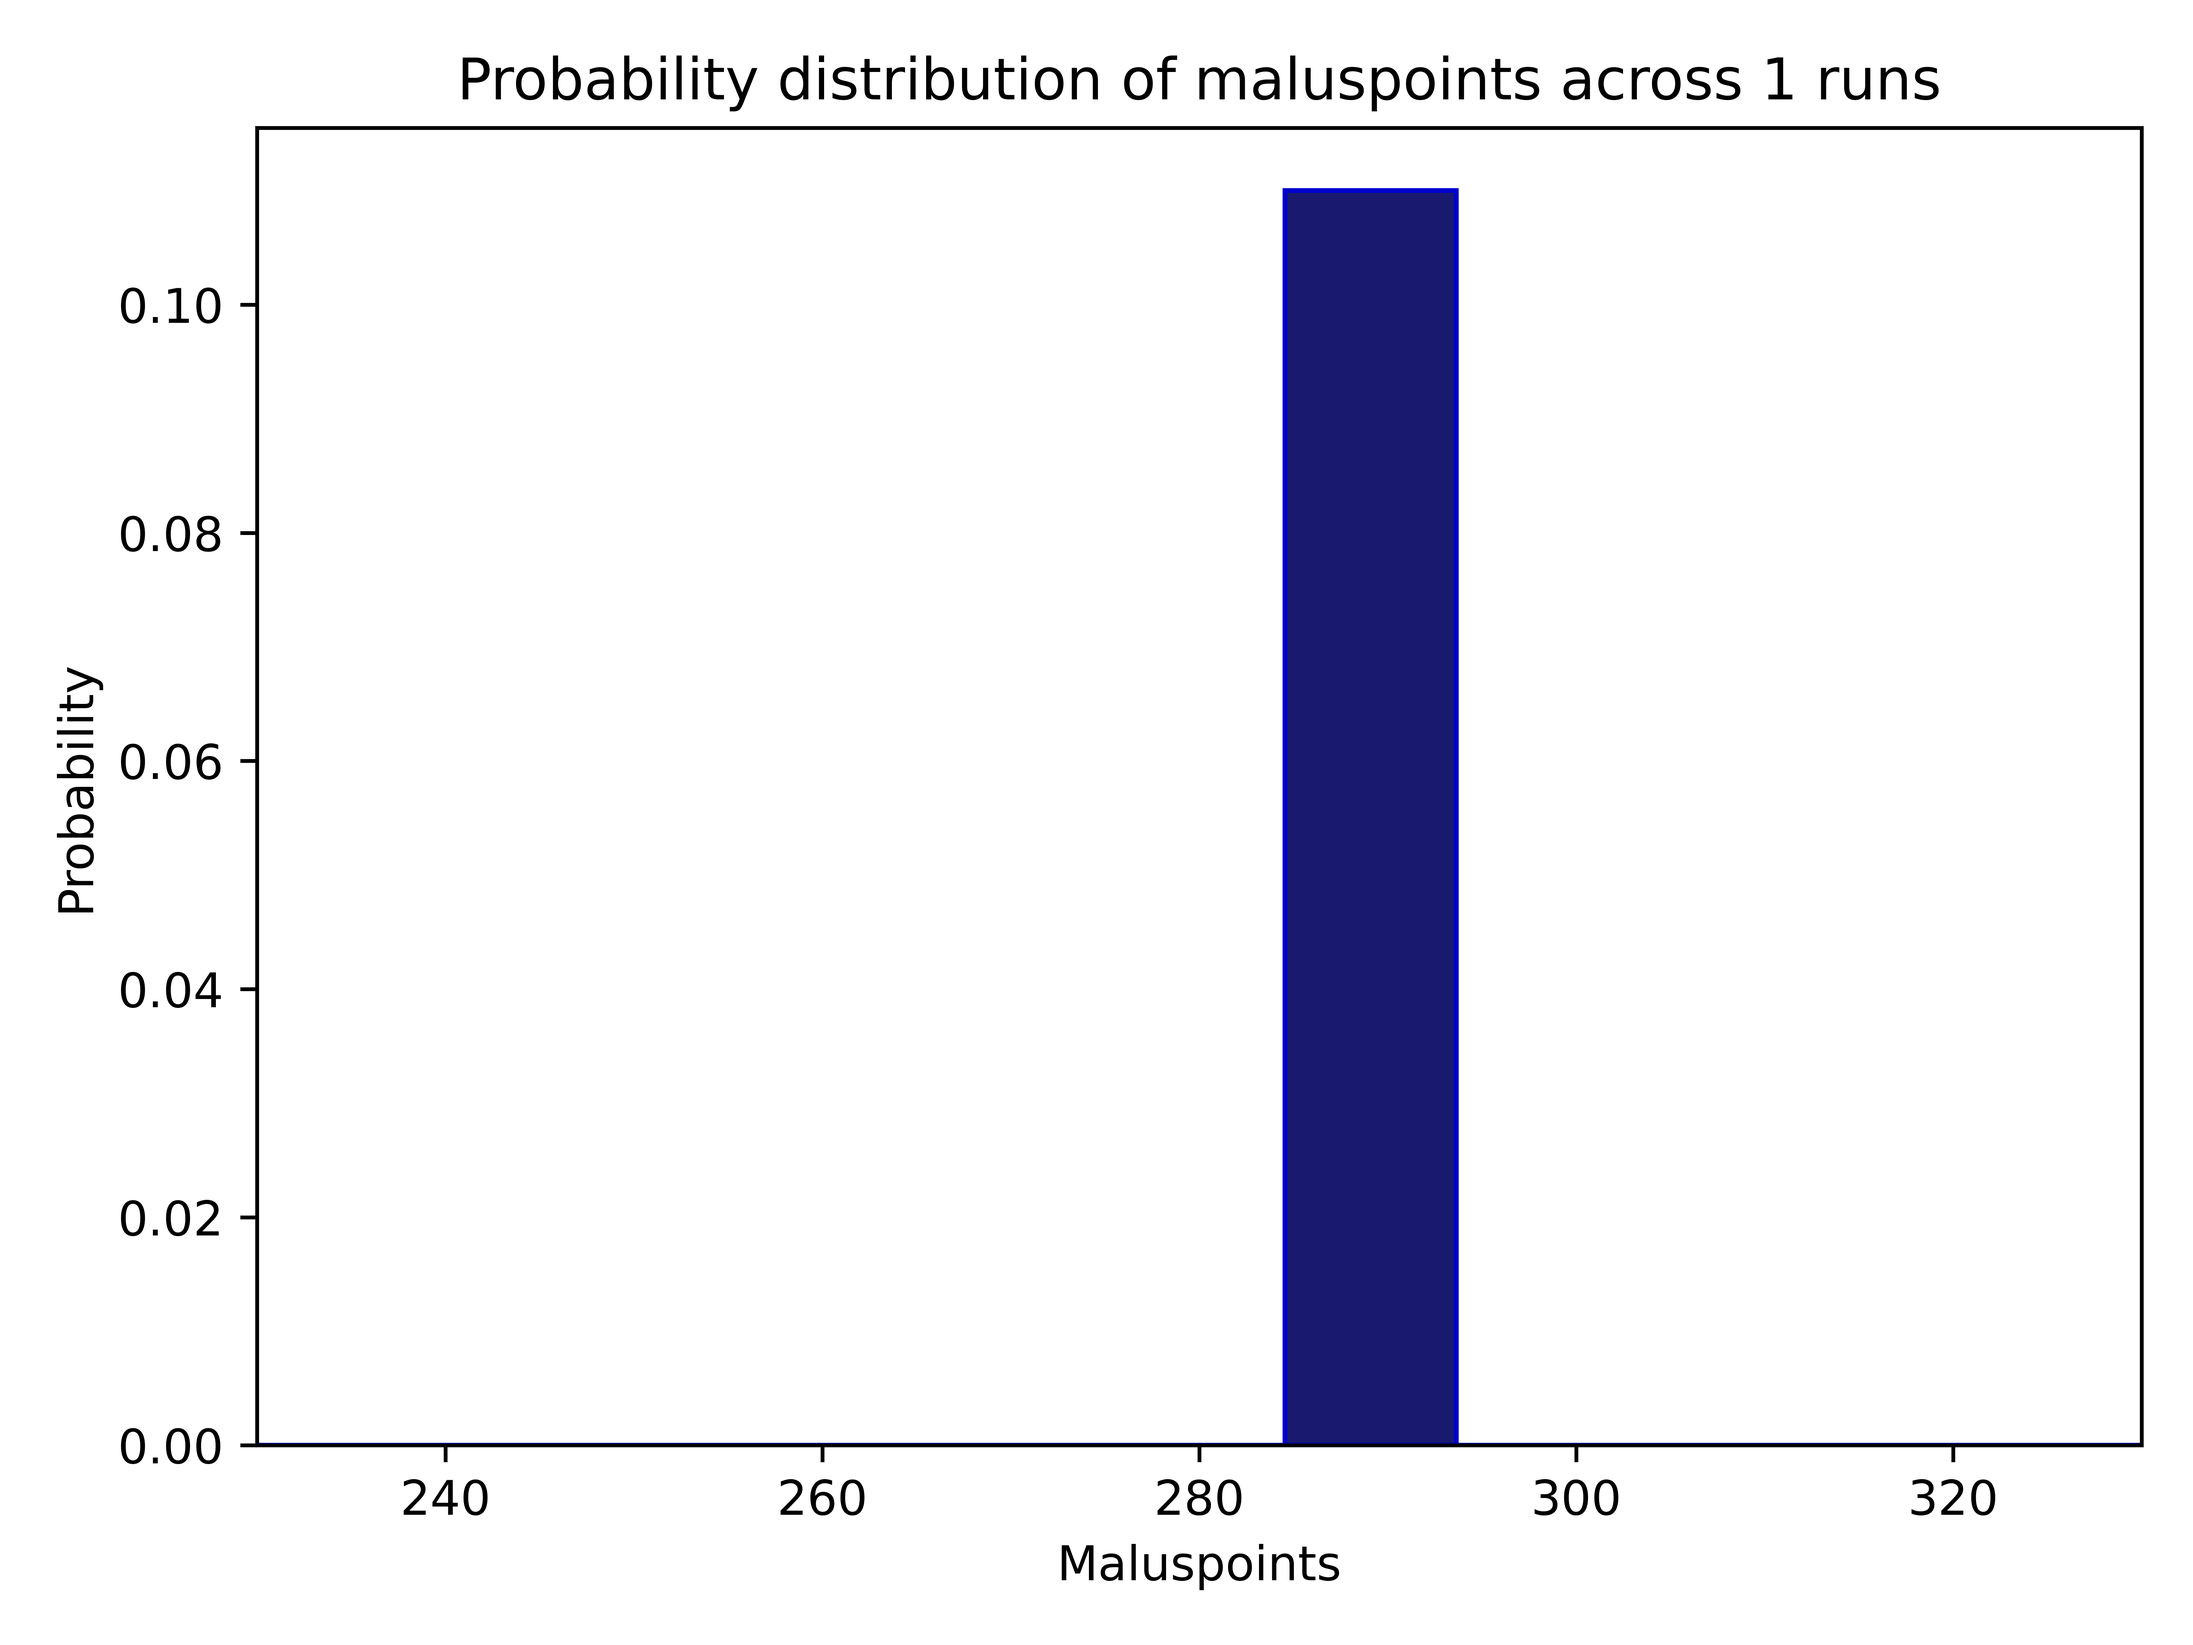
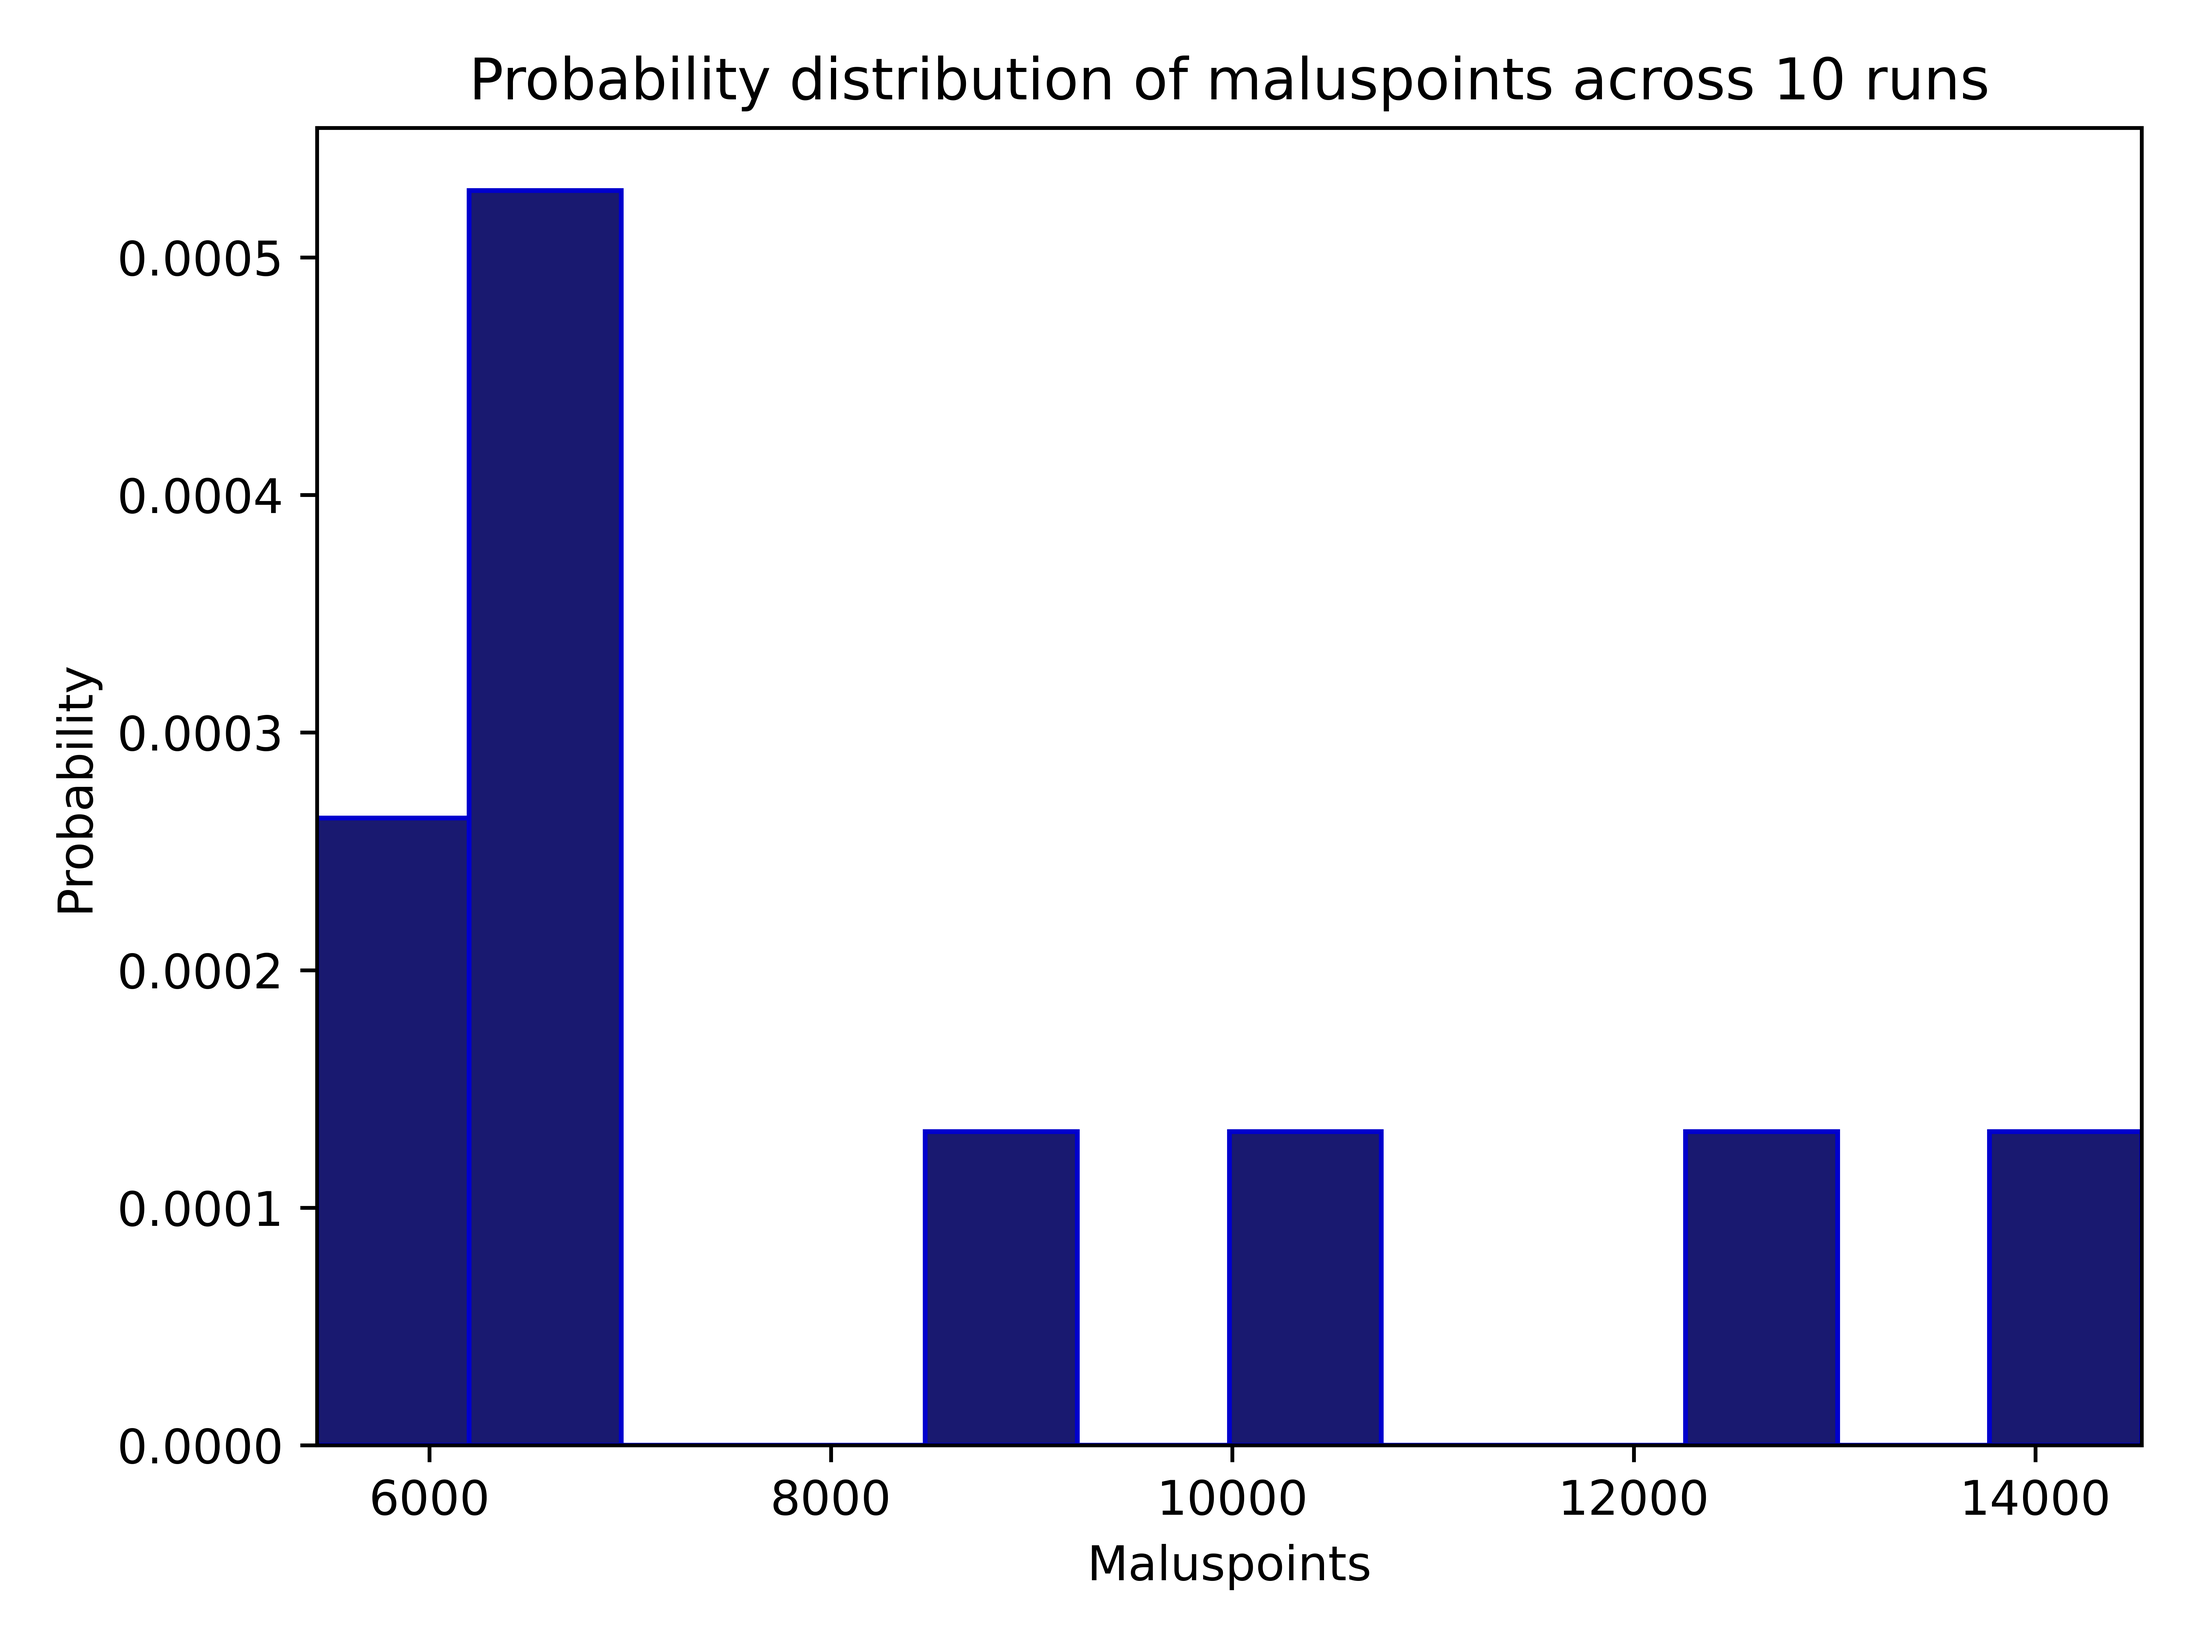
Graph and histogram bugs fixed

diff --git a/code/visualisations.py b/code/visualisations.py
@@ -60,7 +60,7 @@ def distribution(points, n):
 
     minimum = min(points) // 10 * 10 - 50
     maximum = max(points) // 10 * 10 + 50
-    plt.hist(points, range=(minimum, maximum), color='midnightblue', edgecolor='mediumblue', density=True, bins=(maximum - minimum) // 10 + 1)
+    plt.hist(points, range=(minimum, maximum), color='midnightblue', edgecolor='mediumblue', density=True, bins=12)
     plt.xlim(minimum, maximum)
     plt.title(f"Probability distribution of maluspoints across {n} runs")
     plt.xlabel("Maluspoints")
@@ -86,4 +86,4 @@ def plot(plotx, ploty, streak, algorithm):
     plt.ylabel("Maluspoints")
     plt.title(f"Points during hill climber after {len(ploty)} iterations")
     plt.grid()
-    plt.savefig(f'code/algorithms/plots/{algorithm}{streak}.png', dpi=1000)
+    plt.savefig(f'code/algorithms/plots/{algorithm}{len(ploty)}.png', dpi=1000)

diff --git a/code/algorithms/hill_climber.py b/code/algorithms/hill_climber.py
@@ -1,13 +1,13 @@
 import sys
 import os
 
-from checker import checker
-from random import choice, random, sample
-
 current = os.path.dirname(os.path.realpath(__file__))
 parent = os.path.dirname(current)
 sys.path.append(parent)
 sys.setrecursionlimit(10000)
+
+from checker import checker
+from random import choice, random, sample
 
 
 class HillClimber:
@@ -382,7 +382,7 @@ class HillClimber:
         tstart = old_points
 
         if algorithm == 'annealing' or algorithm == 'climber-annealing':
-            for x in range(self.iteration_limit):
+            for x in range(self.iteration_limit // 2):
                 if iteration % 1000 == 0:
                     print(f"Iteration: {iteration}, Streak: {current_streak}, Points: {old_points}")
                 current_streak, old_points = self.activity_climber(
